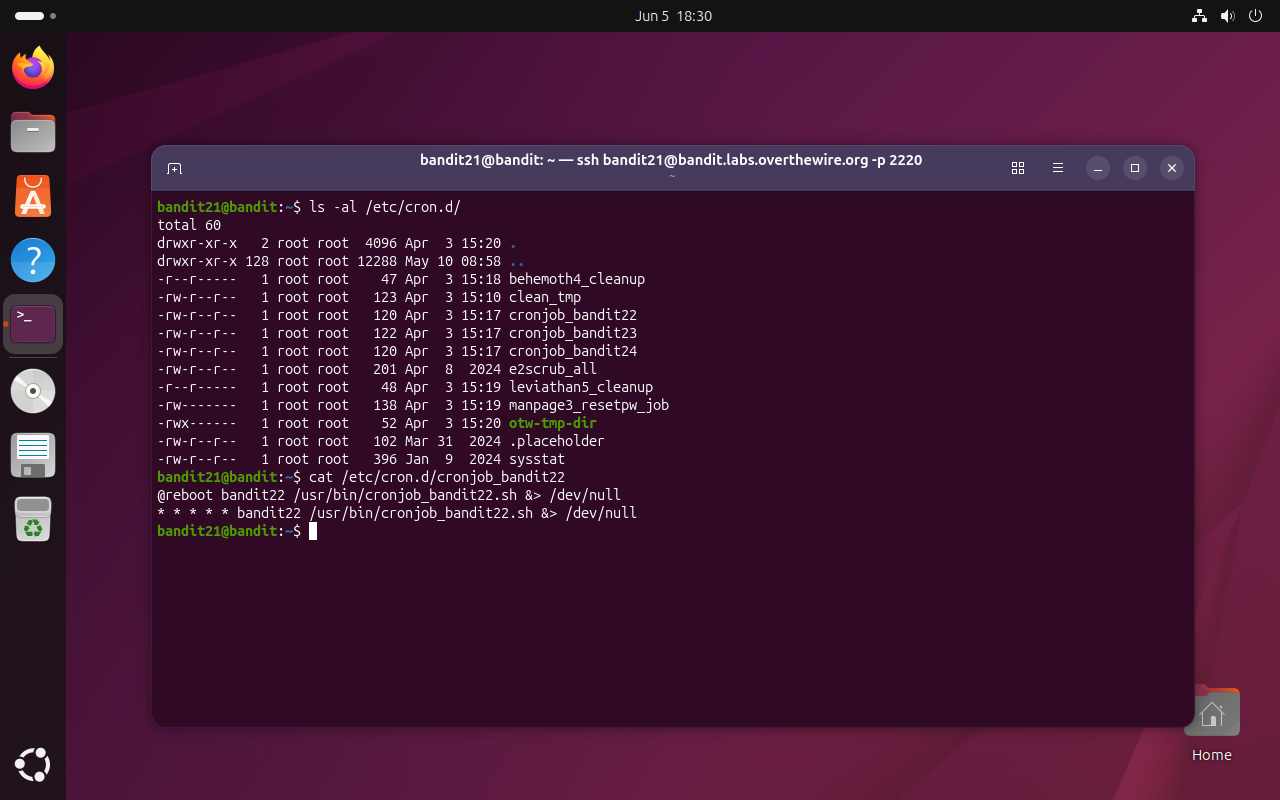
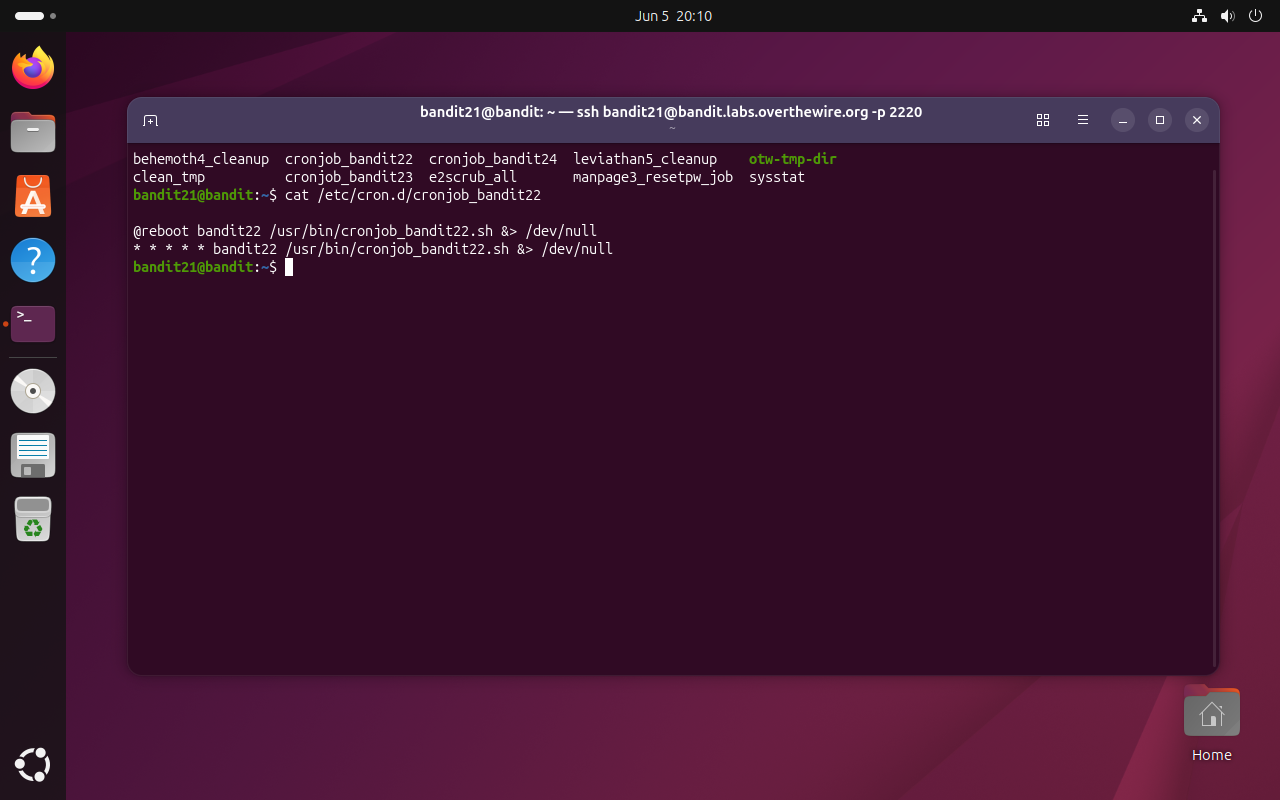
Aggiunto livello 21

Changed region(s): [[0.0938, 0.0938, 0.9688, 0.9375], [0.0, 0.3438, 0.0625, 0.4688], [0.5312, 0.0, 0.5625, 0.0312]]

diff --git a/level-21/README.md b/level-21/README.md
@@ -1,0 +1,122 @@
+# Bandit Level 21 → 22
+
+## Obiettivo
+
+La password per il livello successivo è ottenibile esaminando i cronjob in esecuzione sul sistema e capendo cosa fanno.
+
+---
+
+## Informazioni di connessione
+
+| Campo | Valore |
+|-------|--------|
+| Host | `bandit.labs.overthewire.org` |
+| Porta | `2220` |
+| Utente | `bandit21` |
+
+```bash
+ssh bandit21@bandit.labs.overthewire.org -p 2220
+```
+
+---
+
+## Comandi / concetti utili
+
+- `ls /etc/cron.d/` — elenca i file di configurazione dei cronjob di sistema
+- `cat` — legge il contenuto di un file
+- `cron` — daemon di sistema che esegue comandi pianificati
+- `chmod 644` — permessi lettura per tutti, scrittura solo per il proprietario
+
+---
+
+## Soluzione
+
+### Step 1 – Esplorare `/etc/cron.d/` e identificare il cronjob rilevante
+
+```bash
+bandit21@bandit:~$ ls /etc/cron.d/
+behemoth4_cleanup  cronjob_bandit22  cronjob_bandit24  leviathan5_cleanup  otw-tmp-dir
+clean_tmp          cronjob_bandit23  e2scrub_all       manpage3_resetpw_job  sysstat
+```
+
+Nella directory sono presenti più file di configurazione cron. `cronjob_bandit22` è il più interessante per il livello corrente. Lo si legge per capire cosa pianifica:
+
+```bash
+bandit21@bandit:~$ cat /etc/cron.d/cronjob_bandit22
+@reboot bandit22 /usr/bin/cronjob_bandit22.sh &> /dev/null
+* * * * * bandit22 /usr/bin/cronjob_bandit22.sh &> /dev/null
+```
+
+Il file definisce due trigger per lo stesso script, eseguito come utente `bandit22`: uno all'avvio del sistema (`@reboot`) e uno ogni minuto (`* * * * *`). L'output dello script viene scartato (`&> /dev/null`), quindi non produce nulla di visibile nel terminale, anche se lo script stesso potrebbe scrivere dati da qualche parte.
+
+![Terminale: ls /etc/cron.d/ e cat cronjob_bandit22](./screenshots/21-cronjob_bandit22.png)
+
+### Step 2 – Leggere lo script e trovare il file temporaneo
+
+```bash
+bandit21@bandit:~$ cat /usr/bin/cronjob_bandit22.sh
+#!/bin/bash
+chmod 644 /tmp/t7O6lds9S0RqQh9aMcz6ShpAoZKF7fgv
+cat /etc/bandit_pass/bandit22 > /tmp/t7O6lds9S0RqQh9aMcz6ShpAoZKF7fgv
+```
+
+Lo script fa due cose: imposta i permessi `644` su un file in `/tmp` (rendendolo leggibile da tutti gli utenti), poi ci scrive dentro la password di `bandit22`. Dato che lo script gira ogni minuto come `bandit22` — l'unico utente che può leggere `/etc/bandit_pass/bandit22` — il file in `/tmp` viene aggiornato continuamente ed è accessibile a chiunque sul server, incluso `bandit21`.
+
+Il nome del file (`t7O6lds9S0RqQh9aMcz6ShpAoZKF7fgv`) non deve essere indovinato, è scritto esplicitamente nello script.
+
+```bash
+bandit21@bandit:~$ cat /tmp/t7O6lds9S0RqQh9aMcz6ShpAoZKF7fgv
+[password bandit22]
+```
+
+![Terminale: cat dello script e cat del file temporaneo con password](./screenshots/21-password-redirected.png)
+
+---
+
+## Note e osservazioni
+
+**`cron` e il formato crontab**
+
+`cron` è un demone che gira in background e si occupa di eseguire comandi in modo pianificato. La configurazione avviene tramite file in formato **crontab** (cron table), che possono trovarsi in diverse posizioni:
+
+- `/etc/cron.d/` — file di sistema, uno per servizio, usati da pacchetti e applicazioni
+- `/etc/crontab` — crontab globale di sistema
+- `crontab -e` (per utente) — crontab personale dell'utente corrente, in `/var/spool/cron/crontabs/`
+
+Il formato delle righe in `/etc/cron.d/` aggiunge un campo utente rispetto al crontab personale:
+
+```
+minuto  ora  giorno_mese  mese  giorno_settimana  utente  comando
+```
+
+Ogni campo accetta:
+- `*` — qualsiasi valore (ogni minuto, ogni ora, ecc.)
+- un numero — valore specifico (es. `0` = ora zero, mezzanotte)
+- `*/N` — ogni N unità (es. `*/5` nei minuti = ogni 5 minuti)
+- `N,M` — lista di valori (es. `1,15` nel giorno del mese = il 1° e il 15°)
+
+La riga `* * * * * bandit22 ...` ha tutti i campi temporali a `*`: il comando viene eseguito ogni minuto di ogni ora di ogni giorno.
+
+**`@reboot` e le direttive speciali**
+
+Oltre ai 5 campi numerici, cron supporta alcune direttive speciali che sostituiscono l'intera parte temporale:
+
+| Direttiva | Equivalente | Significato |
+|---|---|---|
+| `@reboot` | — | Una volta all'avvio del sistema |
+| `@hourly` | `0 * * * *` | Ogni ora, al minuto zero |
+| `@daily` | `0 0 * * *` | Una volta al giorno, a mezzanotte |
+| `@weekly` | `0 0 * * 0` | Una volta a settimana, domenica a mezzanotte |
+| `@monthly` | `0 0 1 * *` | Una volta al mese, il primo giorno |
+
+**`&> /dev/null` e la redirezione combinata**
+
+`&>` è una scorciatoia bash che redirige sia `stdout` (canale 1) che `stderr` (canale 2) alla stessa destinazione. `&> /dev/null` scarta quindi qualsiasi output del comando, sia normale che di errore. È il modo standard per far girare script cron "silenziosamente": senza questa redirezione, cron tenterebbe di inviare l'output via email all'utente proprietario, il che in ambienti senza mail server produce errori o file di log ingombranti.
+
+**Il file in `/tmp` e la sua accessibilità**
+
+Il `chmod 644` eseguito dallo script è il dettaglio che rende possibile la soluzione. Senza di esso il file avrebbe permessi determinati dalla umask di `bandit22` al momento della creazione, che probabilmente escluderebbero la lettura da parte di altri utenti. Con `644`, il file è leggibile da tutti (`r--` per gruppo e altri): chiunque sul server conosca il percorso può leggerlo. Il percorso non è pubblicato o indovinabile via bruteforcing, ma è ricavabile direttamente dallo script che chiunque può leggere perché si trova in `/usr/bin` con permessi di lettura globali.
+
+**Metodo alternativo (circa)**
+
+Non esiste un percorso sostanzialmente diverso per questo livello: la catena di ragionamento (cron.d → script → file in /tmp) è l'unica via. Si potrebbe arrivare al file in `/tmp` anche senza leggere lo script, cercando file leggibili da tutti in `/tmp` con `find /tmp -readable -type f 2>/dev/null`, ma senza sapere quale sia quello rilevante tra molti risultati potenziali, leggere lo script rimane un passaggio necessario.

diff --git a/README.md b/README.md
@@ -48,7 +48,7 @@ Ogni cartella `level-XX` rappresenta la risoluzione del livello XX, ovvero i pas
 | [Level 18](./level-18/README.md) | Esecuzione comandi remoti via SSH senza shell interattiva, .bashrc e tipi di shell | ✅ |
 | [Level 19](./level-19/README.md) | Bit setuid, eseguibile con privilegi elevati, privilege escalation | ✅ |
 | [Level 20](./level-20/README.md) | `tmux` e job control, processi concorrenti, `nc` in ascolto, command-line injection | ✅ |
-| [Level 21](./level-21/README.md) | — | ✅ |
+| [Level 21](./level-21/README.md) | Cron e cronjob, lettura di script pianificati, `/etc/cron.d/` | ✅ |
 | [Level 22](./level-22/README.md) | — | ✅ |
 | [Level 23](./level-23/README.md) | — | ✅ |
 | [Level 24](./level-24/README.md) | — | ✅ |
